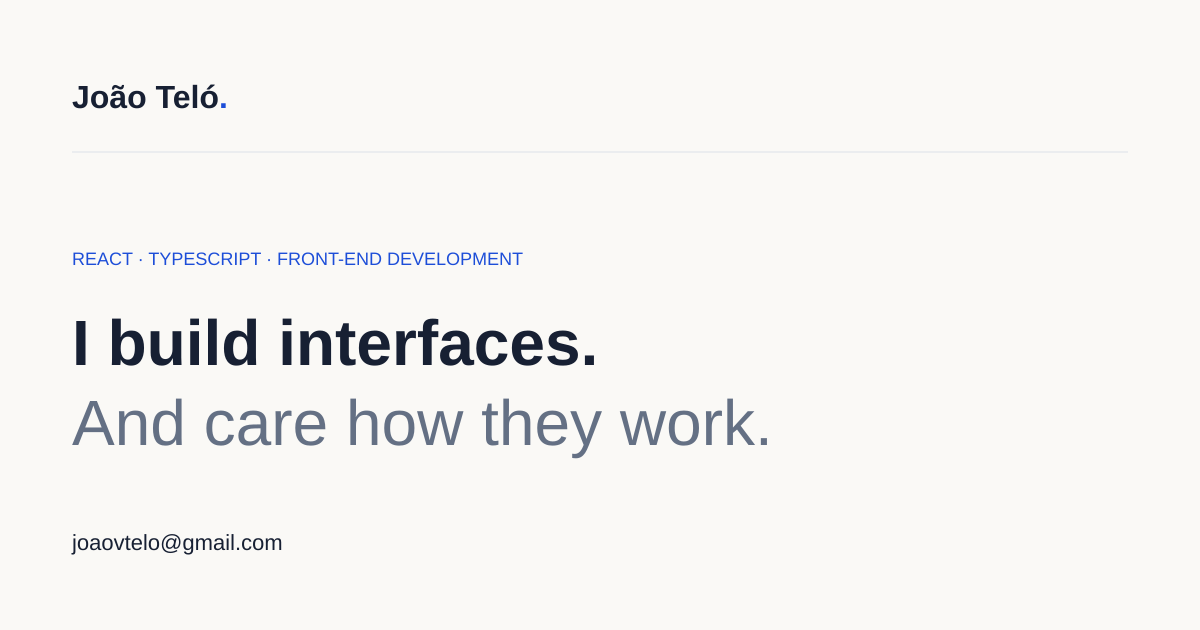
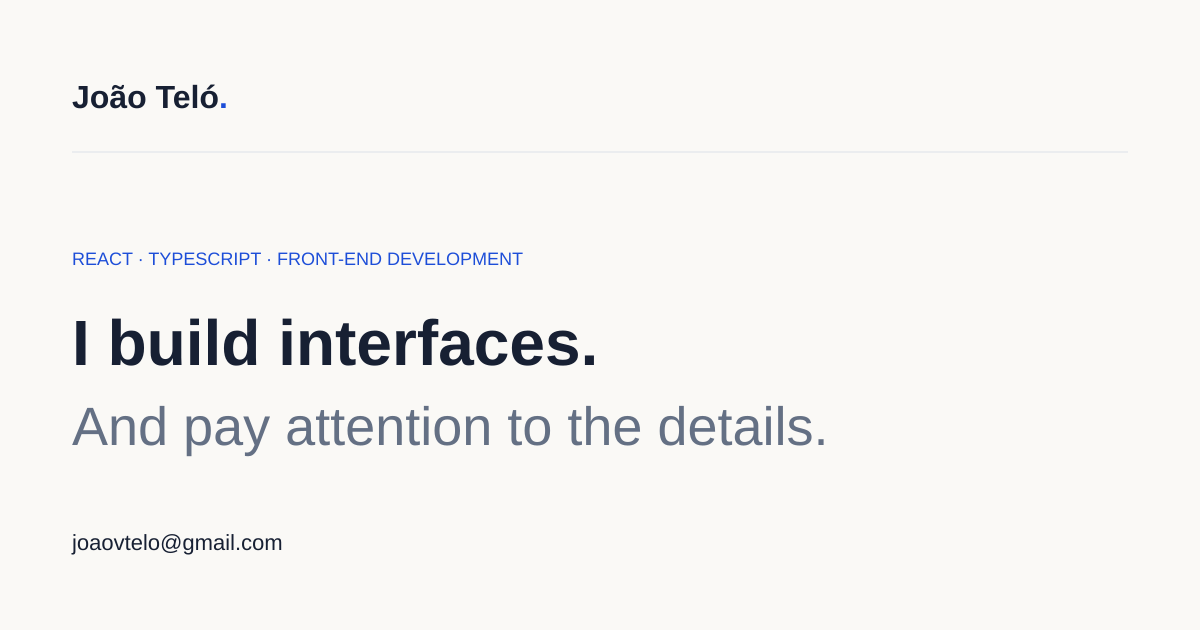
Refresh headline and capture redesigned gameplay review demo

Changed region(s): [[0.0617, 0.6333, 0.6783, 0.7238]]

diff --git a/components/portfolio.tsx b/components/portfolio.tsx
@@ -40,7 +40,7 @@ export function Hero() {
       <h1 id="hero-title">
         I build interfaces.
         <br />
-        <span>And care how they work.</span>
+        <span>And pay attention to the details.</span>
       </h1>
       <div className="hero-bottom">
         <div>
@@ -121,7 +121,7 @@ function ProjectCard({ project, index }: { project: Project; index: number }) {
         {project.image ? (
           <Image
             src={project.image}
-            alt="Gameplay review demo showing timestamped notes and category filters"
+            alt="Updated gameplay review demo with recording playback beside timestamped feedback and category controls"
             width={1440}
             height={1000}
             sizes="(min-width: 1200px) 620px, (min-width: 768px) 52vw, calc(100vw - 40px)"

diff --git a/app/layout.tsx b/app/layout.tsx
@@ -20,7 +20,7 @@ export const metadata: Metadata = {
       : { index: false, follow: false },
   openGraph: {
     title: "João Teló | React & TypeScript Developer",
-    description: "I build interfaces. And care how they work.",
+    description: "I build interfaces. And pay attention to the details.",
     type: "website",
     locale: "en_US",
     images: [{ url: socialImage, width: 1200, height: 630 }],

diff --git a/content/portfolio.ts b/content/portfolio.ts
@@ -21,7 +21,7 @@ export interface Project {
 }
 export const projects: Project[] = [
   {
-    image: assetPath("/projects/gameplay-review-demo.webp"),
+    image: assetPath("/projects/gameplay-review-2026-10-25.webp"),
     title: "Gameplay Video Review Tool",
     label: "Personal project · MVP · October 2026",
     description:

diff --git a/VALIDATION.md b/VALIDATION.md
@@ -97,3 +97,9 @@ The first Pages workflow succeeded: https://github.com/Moharu/portfolio-joao-tel
 Three Lighthouse 13.5.0 default mobile runs against the live URL scored **100 Performance, 100 Accessibility, 100 Best Practices and 100 SEO in every run**. Same documented mobile simulation as above (412 × 823, DPR 1.75, simulated network, 4× CPU). LCP: **0.922 / 1.611 / 0.922s**; CLS: **0 / 0 / 0**; TBT: **40 / 41 / 42ms**. These are lab results from the deployed host, not real-user Core Web Vitals. Production indexing is enabled; the earlier preview's SEO score is historical.
 
 Live cold browser-cache-disabled transfer at 390 × 844, DPR 1, before scrolling: HTML **8,046 bytes**, CSS **4,804 bytes**, JavaScript **142,391 bytes**, images **94,827 bytes**, fonts **0 bytes**, total **250,068 bytes**. All specified budgets pass, including the direct screenshot's 150KB aim. CDN caches may be warm; browser cache was disabled. The PDF is excluded until requested and was separately verified by the browser suite. Raw reports and resource headers are retained in local ignored artifacts.
+
+## 25 October 2026 — headline and gameplay capture refresh
+
+Changed the hero and social preview to “I build interfaces. And pay attention to the details.” Captured the current public gameplay demo in a fresh Chromium context at 1440 × 1000, paused at 1:07. The authentic capture shows the redesigned dark workspace, playback, category controls and both timestamped notes. Updated provenance and alt text, and used a dated asset filename to avoid cached older imagery. The WebP remains under 150KB.
+
+Production static export, lint and strict type checking passed. All 12 cross-browser checks passed against the Pages-subpath preview, including responsive reflow for the longer headline, accessibility in both themes and no-JavaScript content. Earlier Lighthouse scores are historical; performance was not remeasured for this copy/asset refresh.

diff --git a/public/projects/README.md b/public/projects/README.md
@@ -1,6 +1,6 @@
 # Project assets
 
-`gameplay-review-demo.webp` is an authentic Chromium capture of the public hosted demo at https://ffxiv-pull-review.vercel.app/ on 24 October 2026 (America/Sao_Paulo). Fresh browser context; clicked “Try demo recording”, paused at 1:07, scrolled to show category controls and timestamped feedback. Screenshot compressed to WebP; no interface elements composited or fabricated. Original viewport: 1440 × 1000.
+`gameplay-review-2026-10-25.webp` is an authentic Chromium capture of the public hosted demo at https://ffxiv-pull-review.vercel.app/ on 25 October 2026 (America/Sao_Paulo). Fresh browser context; clicked “Try demo recording”, paused at 1:07, scrolled to show category controls and timestamped feedback. Screenshot compressed to WebP; no interface elements composited or fabricated. Original viewport: 1440 × 1000.
 
 Public sample feedback and game/player overlays are visible. Confirm permission to republish the recording capture, including third-party game/stream imagery, before launch. No local saved review or private data was used.
 
